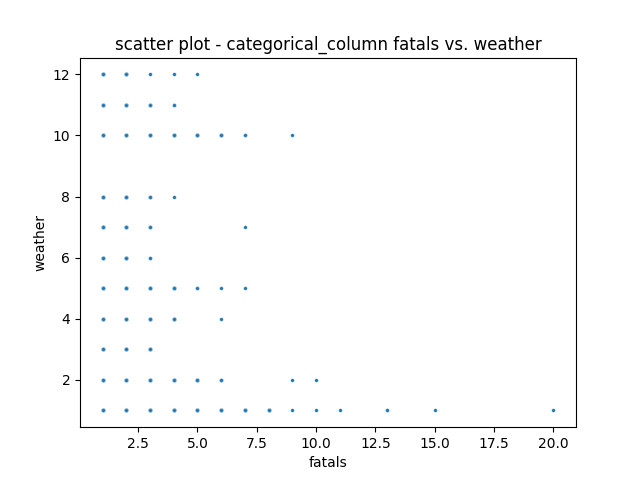
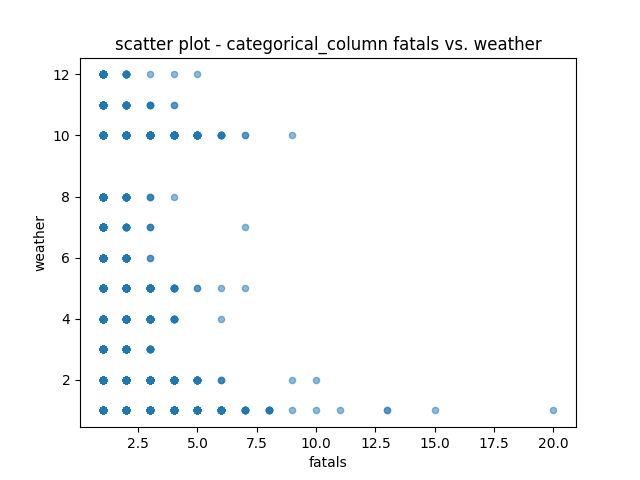
added some graphs functions

diff --git a/const_variables.py b/const_variables.py
@@ -101,15 +101,15 @@ columns_description = {'weather': ['Clear',
                        'month': ['',
                                    '',
                                    ''],
-                        'fatals': [''],  # fatals have no categories
-                        'drunk_dr': [''],  # drunk drivers have no categories
+                        'fatals': [''],  # Fatals have no categories
+                        'drunk_dr': [''],  # Drunk drivers have no categories
                        'lgt_cond': ['daylight',
                                     'dark-not lighted',
                                     'dark-lighted',
                                     'dawn',
                                     'dust',
                                     'dark - unknown',
-                                    'other'],
+                                    'other'],  # Light Condition
                        'typ_int': ['Not an Intersection',
                                    'Four-Way Intersection',
                                    'T-Intersection',
@@ -119,7 +119,7 @@ columns_description = {'weather': ['Clear',
                                    'Five Point, or More',
                                    '',
                                    '',
-                                   'L-Intersection'],
+                                   'L-Intersection'],  # Type of Intersection
                        'reljct1': ['No',
                                    'Yes',
                                    '',  # not relevant
@@ -129,7 +129,7 @@ columns_description = {'weather': ['Clear',
                                    '',  # not relevant
                                    '',  # not relevant
                                    'Not Reported',
-                                   'Reported as Unknown'],
+                                   'Reported as Unknown'],  # Relation to Junction- Within Interchange Area
                        'reljct2': ['Non-Junction',
                                    'Intersection',
                                    'Intersection-Related',
@@ -149,7 +149,7 @@ columns_description = {'weather': ['Clear',
                                    'Acceleration/Deceleration Lane',
                                    'Through Roadway',
                                    'Other location within Interchange Area',
-                                   'Entrance/Exit Ramp'],
+                                   'Entrance/Exit Ramp'],  # Relation to Junction- Specific Location
                        'man_coll': ['The First Harmful Event was Not a Collision with a Motor Vehicle in Transport',
                                     'Front-to-Rear ',
                                     'Front-to-Front',
@@ -161,7 +161,7 @@ columns_description = {'weather': ['Clear',
                                     'Sideswipe - Opposite Direction',
                                     'Rear-to-Side',
                                     'Rear-to-Rear',
-                                    'Other'],
+                                    'Other'],  # Manner of Collision of the First Harmful Event
                        'harm_ev' : ['Rollover/Overturn',  # 1
                                     'Fire/Explosion',  # 2
                                     'Immersion or Partial Immersion',  # 3
@@ -236,7 +236,7 @@ columns_description = {'weather': ['Clear',
                                     'Cargo/Equipment Loss, Shift, or Damage [harmful]',  # 72
                                     'Object That Had Fallen From Motor Vehicle In-Transport',  # 73
                                     'Road Vehicle on Rails'  # 74
-                                    ],
+                                    ],  # First Harmful Event
                        'state': ['Alabama ',  # 1
                                  'Alaska ',  # 2
                                  'Arizona ',  # 4
@@ -289,5 +289,5 @@ columns_description = {'weather': ['Clear',
                                  'Washington',  # 53
                                  'West Virginia',  # 54
                                  'Wisconsin',  # 55
-                                 'Wyoming']}  # 56
+                                 'Wyoming']}  # States
 

diff --git a/graph_generator.py b/graph_generator.py
@@ -52,8 +52,9 @@ def scatter_plot_graph_to_file(df, x_column, y_column):
     :param x_column: columns to be compared with base_column (average)
     :param y_column: columns to be compared with base_column (average)
     """
-    a=sns.scatterplot(x=x_column, y=y_column, s=7, data=df)
-    a.plot()
+    df.plot.scatter(x=x_column, y=y_column, alpha=0.5)
+    # a=sns.scatterplot(x=x_column, y=y_column, s=7, data=df)
+    # a.plot()
     # plt.show()
     plt.title("scatter plot - categorical_column {} vs. {}".format(x_column, y_column))
     plt.xlabel(x_column)
@@ -87,7 +88,73 @@ def pie_graph(df, column):
     :param df:
     :return:
     """
-    fig = plt.figure(figsize=(10,10))
-    df[column].value_counts().plot(kind='pie')
+    fig = plt.figure(figsize=(20, 20))
+    df[column].value_counts().plot(kind='pie', autopct="%.2f")
+    try:
+        plt.legend(consts.columns_description[column])
+    except Exception as e:
+        print("Column data not found. \n{}".format(e))
+
     plt.title("{} Pie Graph".format(column))
     plt.savefig('graphs/{}_graph_pie.png'.format(column))
+
+
+def general_overview(df, column):
+    """
+    This function generates general graph
+    :param df:
+    """
+    df.plot()
+    try:
+        plt.legend(consts.columns_description[column])
+    except Exception as e:
+        print("Column data not found. \n{}".format(e))
+
+    plt.title("{} General Graph".format(column))
+    plt.savefig('graphs/{}_graph_general_overview.png'.format(column))
+
+
+def general_overview_column(df, column):
+    """
+    This function generates general graph
+    :param df:
+    """
+    df[column].plot(figsize=(20, 20))
+    # df[column].plot()
+    try:
+        plt.legend(consts.columns_description[column])
+    except Exception as e:
+        print("Column data not found. \n{}".format(e))
+
+    plt.title("{} General Graph".format(column))
+    plt.savefig('graphs/{}_column_general_overview.png'.format(column))
+
+
+def box_graph(df):
+    """
+    This function generates general graph
+    :param df:
+    """
+    df.plot.box(figsize=(30, 15))
+    plt.title("General Box Graph")
+    plt.savefig('graphs/box_general_graph.png')
+
+
+def box_graph_column(df, column):
+    """
+    This function generates general graph
+    :param df:
+    """
+    df[column].plot.box(figsize=(10, 10))
+    plt.title("{} Box Graph".format(column))
+    plt.savefig('graphs/{}_box_graph.png'.format(column))
+
+
+def test(df, column):
+    """
+    This function generates general graph
+    :param df:
+    """
+    df[column].plot.kde()
+    plt.title("{} stacked Graph".format(column))
+    plt.savefig('graphs/{}_stacked_graph.png'.format(column))

diff --git a/main.py b/main.py
@@ -11,13 +11,20 @@ helper.clear_undefined_values(data)
 # graph_generator.average_graph_to_file(data, 'caseyear', ['fatals', 'weather'])  # caseyear vs fatals and weather
 # graph_generator.bar_graph_to_file(data, 'lgt_cond', 'caseyear')  # caseyear vs fatals
 # graph_generator.bar_graph_to_file(data, 'fatals', 'weather')  # caseyear vs fatals
+# graph_generator.scatter_plot_graph_to_file(data, 'fatals', 'weather')  # caseyear vs fatals
 
-# graph_generator.scatter_plot_graph_to_file(data, 'latitude', 'longitud')  # caseyear vs fatals
-graph_generator.pie_graph(data, 'weather')
-graph_generator.pie_graph(data, 'persons')
+#pie graphs:
+# graph_generator.pie_graph(data, 'weather')
+# graph_generator.pie_graph(data, 'persons')
+# graph_generator.pie_graph(data, 'state')
 
-# graph_generator.scatter_plot_graph_to_file(data, 'caseyear', 'persons', 'fatals')
+# graph_generator.scatter_plot_graph_to_file(data, 'drunk_dr', 'man_coll')
+# graph_generator.general_overview(data, 'Dataframe')
+# graph_generator.general_overview_column(data, 'lgt_cond')
 # graph_generator.graphYearVsCount(data)
+# graph_generator.box_graph(data)
+# graph_generator.box_graph_column(data, 'drunk_dr')
+graph_generator.test(data, 'drunk_dr')
 
 """
 What left to do:
